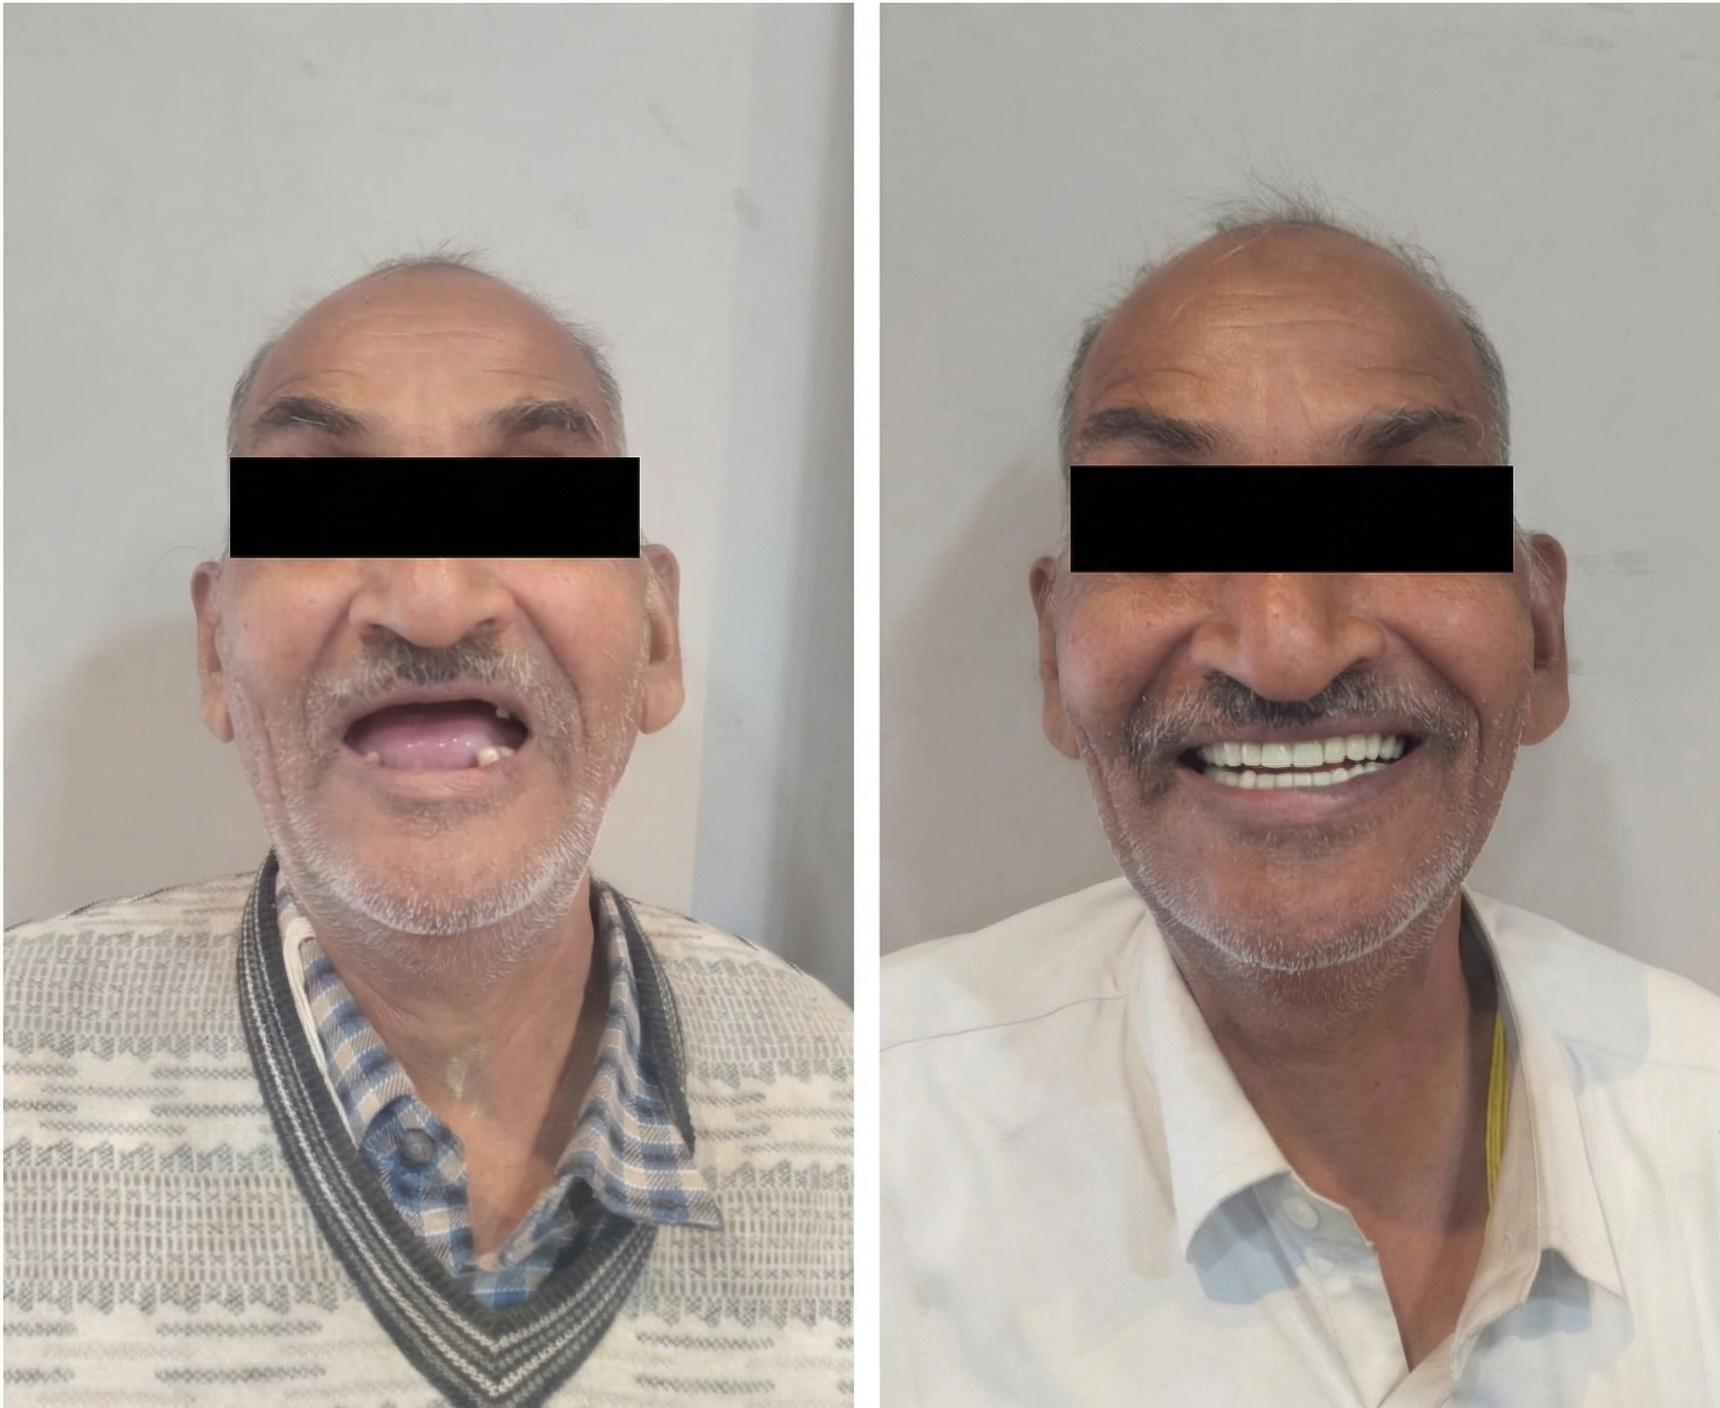
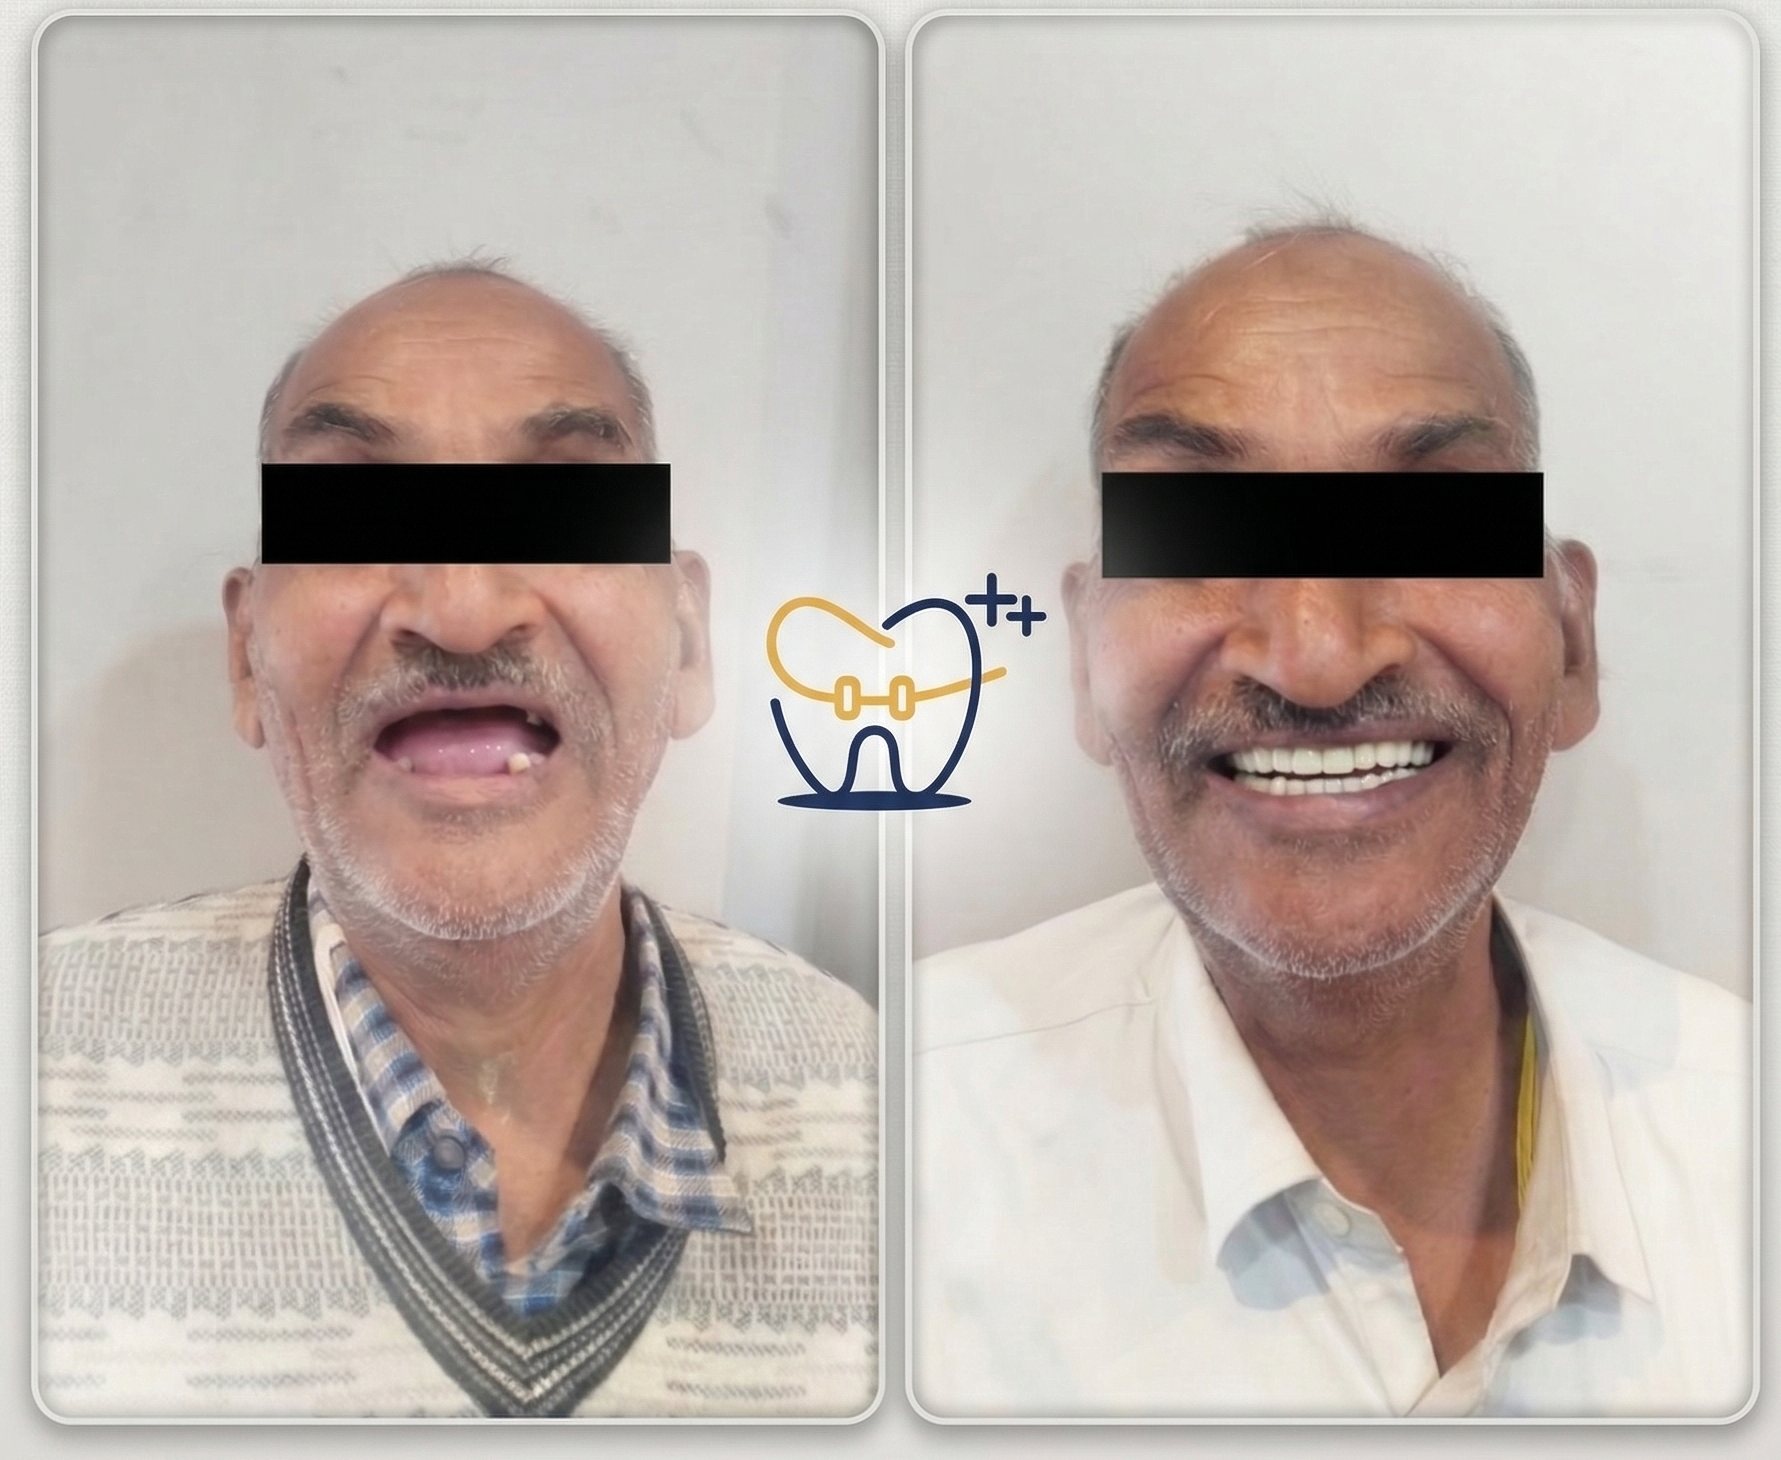
feat: replace Image-13 and Image-14 with updated versions and adjust references in GalleryPage

diff --git a/src/pages/GalleryPage.jsx b/src/pages/GalleryPage.jsx
@@ -9,8 +9,8 @@ const imageFiles = [
   "5image.jpeg",
   "6image.jpeg",
   "7image.jpeg",
-  "Image-13.jpeg",
-  "Image-14.jpeg",
+  "Image-13.png",
+  "Image-14.png",
   "Patient-1.png",
   "Patient-2.png",
   "Patient-3.png",
@@ -20,23 +20,23 @@ const imageFiles = [
 
 const videoFiles = ["8image.mp4", "9image.mp4", "10image.mp4", "11image.mp4", "12image.mp4"];
 const photoFiles = imageFiles.filter(
-  (file) => !file.startsWith("Patient-") && file !== "Image-13.jpeg" && file !== "Image-14.jpeg"
+  (file) => !file.startsWith("Patient-") && file !== "Image-13.png" && file !== "Image-14.png"
 );
 
 const treatmentCases = [
   {
-    file: "Image-13.jpeg",
+    file: "Image-13.png",
     category: "Prosthetics",
     title: "Complete Dentures",
     description:
       "Complete denture rehabilitation to restore missing teeth, support facial profile, and improve day-to-day chewing comfort.",
   },
   {
-    file: "Image-14.jpeg",
+    file: "Image-14.png",
     category: "Prosthetics",
-    title: "Complete Dentures",
+    title: "Smile Rehabilitation",
     description:
-      "Complete denture rehabilitation to restore missing teeth, support facial profile, and improve day-to-day chewing comfort.",
+      "Customized prosthetic solutions to restore missing teeth, enhance smile aesthetics, and improve oral function for a confident new smile.",
   },
   {
     file: "Patient-1.png",
@@ -267,11 +267,22 @@ const GalleryPage = () => {
                   src={`/Images/${file}`}
                   controls
                   autoPlay
+                  defaultMuted
                   muted
                   loop
                   playsInline
                   preload="auto"
                   onLoadedData={() => markVideoLoaded(file)}
+                  onLoadedMetadata={(event) => {
+                    event.currentTarget.muted = true;
+                    event.currentTarget.volume = 0;
+                  }}
+                  onVolumeChange={(event) => {
+                    if (!event.currentTarget.muted || event.currentTarget.volume !== 0) {
+                      event.currentTarget.muted = true;
+                      event.currentTarget.volume = 0;
+                    }
+                  }}
                   className={`w-full h-[360px] object-cover transition-opacity duration-300 ${
                     loadedVideos[file] ? "opacity-100" : "opacity-0"
                   }`}
